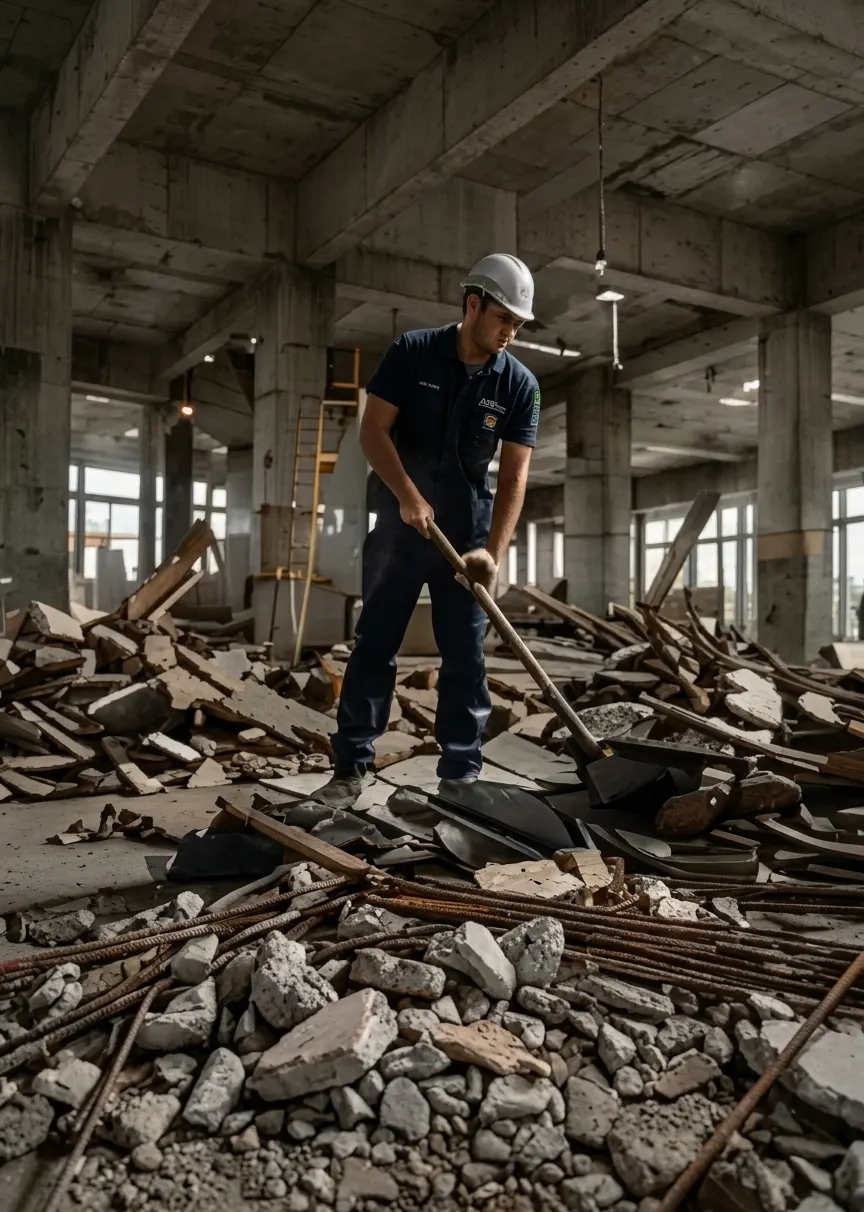
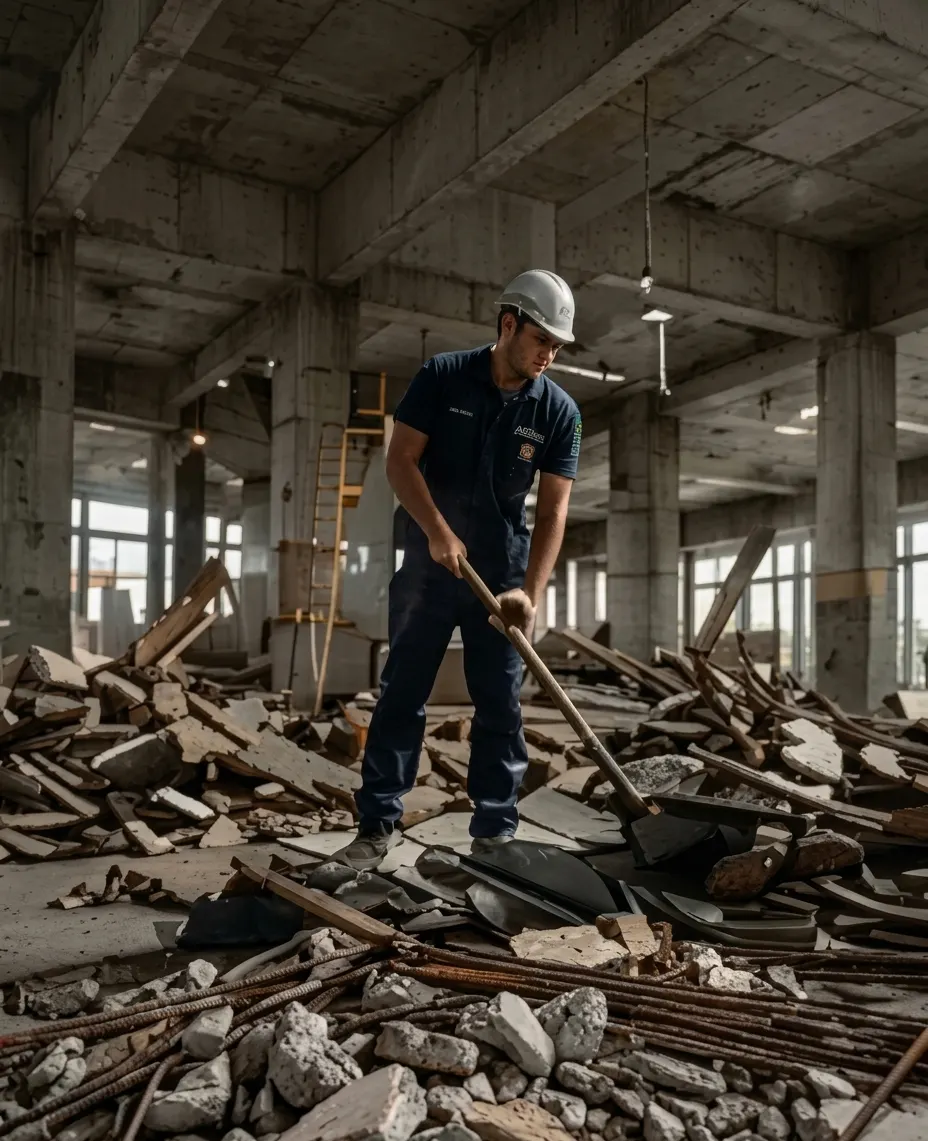
fix: update header, footer layout and asset files

diff --git a/src/components/Footer/Footer.jsx b/src/components/Footer/Footer.jsx
@@ -58,8 +58,7 @@ const Footer = () => {
           {/* ৪. KONTAKT */}
           <div className="col-12 col-md-3">
             <h6 className="footer-heading text-uppercase fw-bold mb-3">KONTAKT</h6>
-            <ul className="list-unstyled ps-0 contact-list">
-<<<<<<< HEAD
+            <ul className="list-unstyled ps-0 contact-list mb-2">
               <li className="mb-2 d-flex align-items-center justify-content-center justify-content-md-start gap-2">
                 <i className="bi bi-telephone-fill"></i> <span>+49 172 6302135</span>
               </li>
@@ -71,48 +70,25 @@ const Footer = () => {
               </li>
             </ul>
               
-           {/* ট্যাক্স আইডি সেকশন */}
-            <div className="tax-info-section mt-3">
-              <div className="tax-row d-flex align-items-center mb-1" style={{ whiteSpace: 'nowrap' }}>
+            {/* ট্যাক্স আইডি সেকশন - marginTop change kore upore/niche namate parben */}
+            <div 
+              className="tax-info-section d-inline-block d-md-block text-start"
+              style={{ marginTop: '1px', marginBottom: '0px' }}
+            >
+              <div className="tax-row d-flex align-items-center mb-1" style={{ whiteSpace: 'nowrap', fontSize: '14px' }}>
                 <i className="bi bi-card-heading me-2"></i>
-                <span style={{ minWidth: '90px', textAlign: 'left' }}>Umsatz ID Nr:</span>
+                <span style={{ minWidth: '95px', textAlign: 'left' }}>Umsatz ID Nr:</span>
                 <span className="text-white ms-2">DE463530931</span>
               </div>
-              <div className="tax-row d-flex align-items-center mb-1" style={{ whiteSpace: 'nowrap' }}>
+              <div className="tax-row d-flex align-items-center mb-1" style={{ whiteSpace: 'nowrap', fontSize: '14px' }}>
                 <i className="bi bi-receipt me-2"></i>
-                <span style={{ minWidth: '90px', textAlign: 'left' }}>Steuern Nr:</span>
+                <span style={{ minWidth: '95px', textAlign: 'left' }}>Steuern Nr:</span>
                 <span className="text-white ms-2">29/533/31003</span>
               </div>
-              <div className="tax-row d-flex align-items-center" style={{ whiteSpace: 'nowrap' }}>
+              <div className="tax-row d-flex align-items-center" style={{ whiteSpace: 'nowrap', fontSize: '14px' }}>
                 <i className="bi bi-building me-2"></i>
-                <span style={{ minWidth: '90px', textAlign: 'left' }}>HRB:</span>
+                <span style={{ minWidth: '95px', textAlign: 'left' }}>HRB:</span>
                 <span className="text-white ms-2">288 177 B</span>
-=======
-              <li className="mb-2 d-flex align-items-start justify-content-center justify-content-md-start gap-2">
-                <span>📞</span> <span>+49 172 6302135</span>
-              </li>
-              <li className="mb-2 d-flex align-items-start justify-content-center justify-content-md-start gap-2">
-                <span>✉</span> <span>Info.sibaggmbh@web.de</span>
-              </li>
-              <li className="mb-2 d-flex align-items-start justify-content-center justify-content-md-start gap-2">
-                <span>📍</span> <span>Ebersstraße 61, 10827 Berlin</span>
-              </li>
-            </ul>
-             
-            {/* ট্যাক্স আইডি সেকশন */}
-            <div className="tax-info-section">
-              <div className="tax-row">
-                Umsatz ID Nr:&nbsp;&nbsp;&nbsp;&nbsp;
-                <span className="text-white">DE463530931</span>
-              </div>
-              <div className="tax-row">
-                Steuern Nr: &nbsp;&nbsp;&nbsp;&nbsp;&nbsp;&nbsp;&nbsp;
-                <span className="text-white">29/533/31003</span>
-              </div>
-              <div className="tax-row">
-                HRB: &nbsp;&nbsp;&nbsp;&nbsp;&nbsp;&nbsp;&nbsp;&nbsp;&nbsp;&nbsp;&nbsp;&nbsp;&nbsp;&nbsp;&nbsp;&nbsp;&nbsp;&nbsp;
-                <span className="text-white">288 177 B</span>
->>>>>>> e6a1b14580d67d3a157cb2c3f01b560b8b601880
               </div>
             </div>
 

diff --git a/src/components/Header/Header.css b/src/components/Header/Header.css
@@ -138,7 +138,6 @@
   bottom: 2px;
 }
 
-<<<<<<< HEAD
 /* মেইন নেভিগেশন কন্টেইনার ফ্লেক্স করে মেনু ডানে সরানোর জন্য */
 .main-navbar .container {
   max-width: 1320px !important;
@@ -158,9 +157,7 @@
   margin-left: auto;
   margin-right: 60px;
 }
-=======
 
->>>>>>> e6a1b14580d67d3a157cb2c3f01b560b8b601880
 
 #startseite, #leistungen, #uber-uns, #referenzen, #kontakt, #angebot { scroll-margin-top: 110px; }
 

diff --git a/src/index.css b/src/index.css
@@ -24,6 +24,6 @@ body {
 /* মোবাইলের জন্য আলাদা মার্জিন */
 @media (max-width: 767px) {
   :root {
-    --site-padding: 10px; /* মোবাইলের জন্য ছোট মার্জিন */
+    --site-padding: 14px; /* মোবাইলের জন্য ছোট মার্জিন */
   }
 }

diff --git a/src/components/Footer/Footer.css b/src/components/Footer/Footer.css
@@ -90,11 +90,6 @@
   vertical-align: middle;
 }
 
-<<<<<<< HEAD
-
-
-=======
->>>>>>> e6a1b14580d67d3a157cb2c3f01b560b8b601880
 /* মোবাইল বা ছোট স্ক্রিনের জন্য (700px এর নিচে) */
 @media screen and (max-width: 700px) {
   .social-icons-wrapper {
